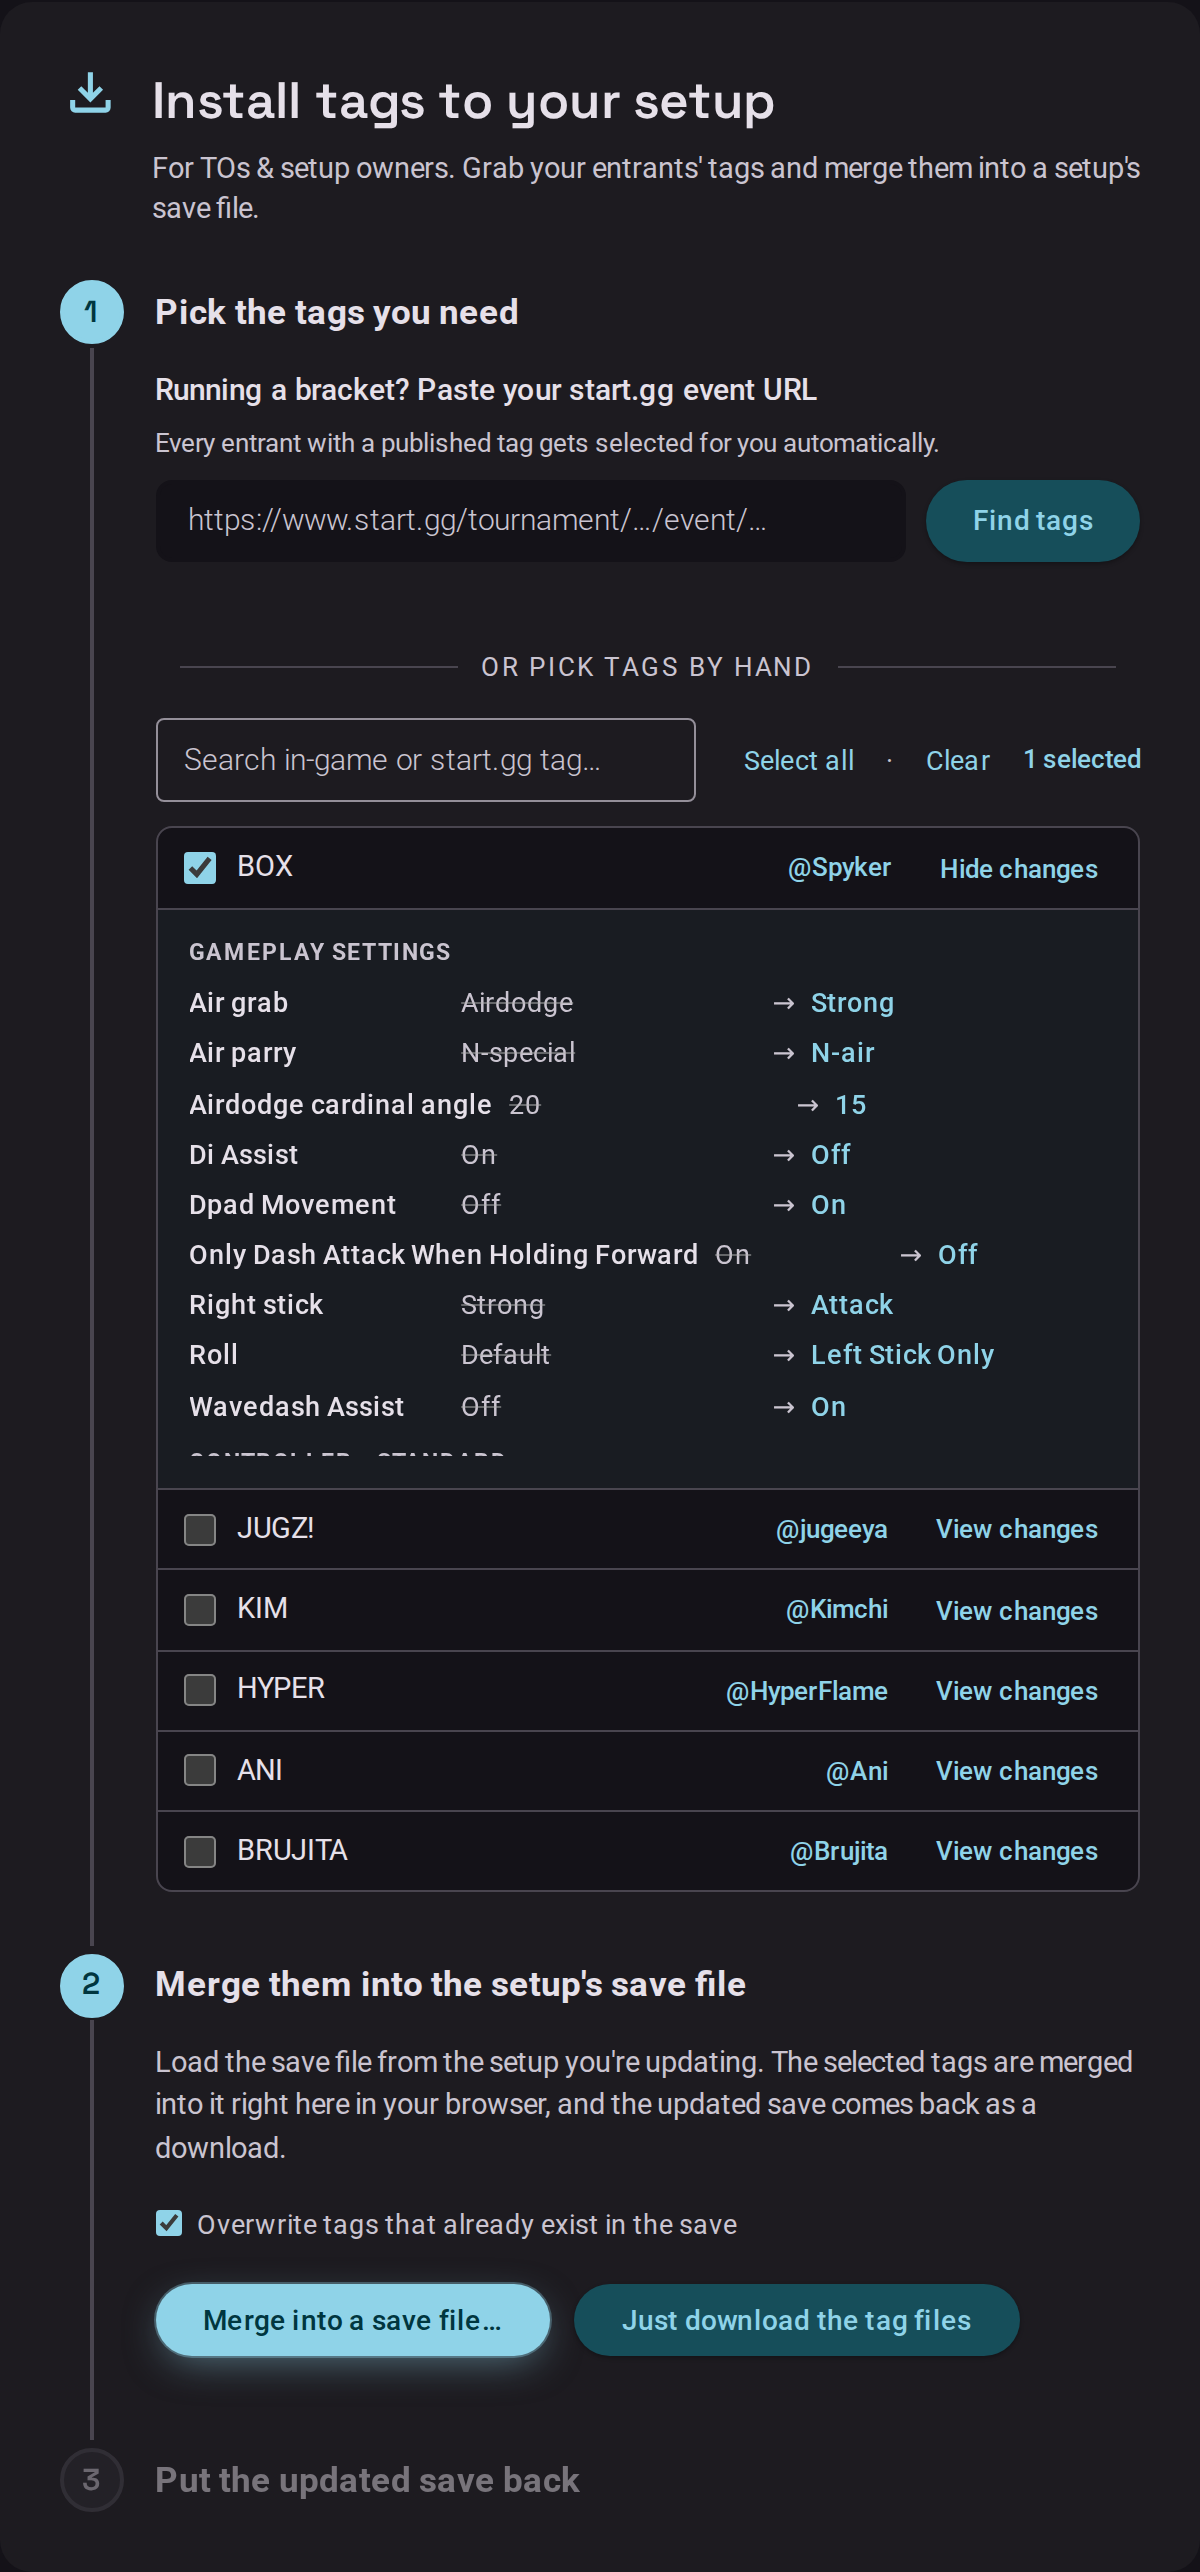
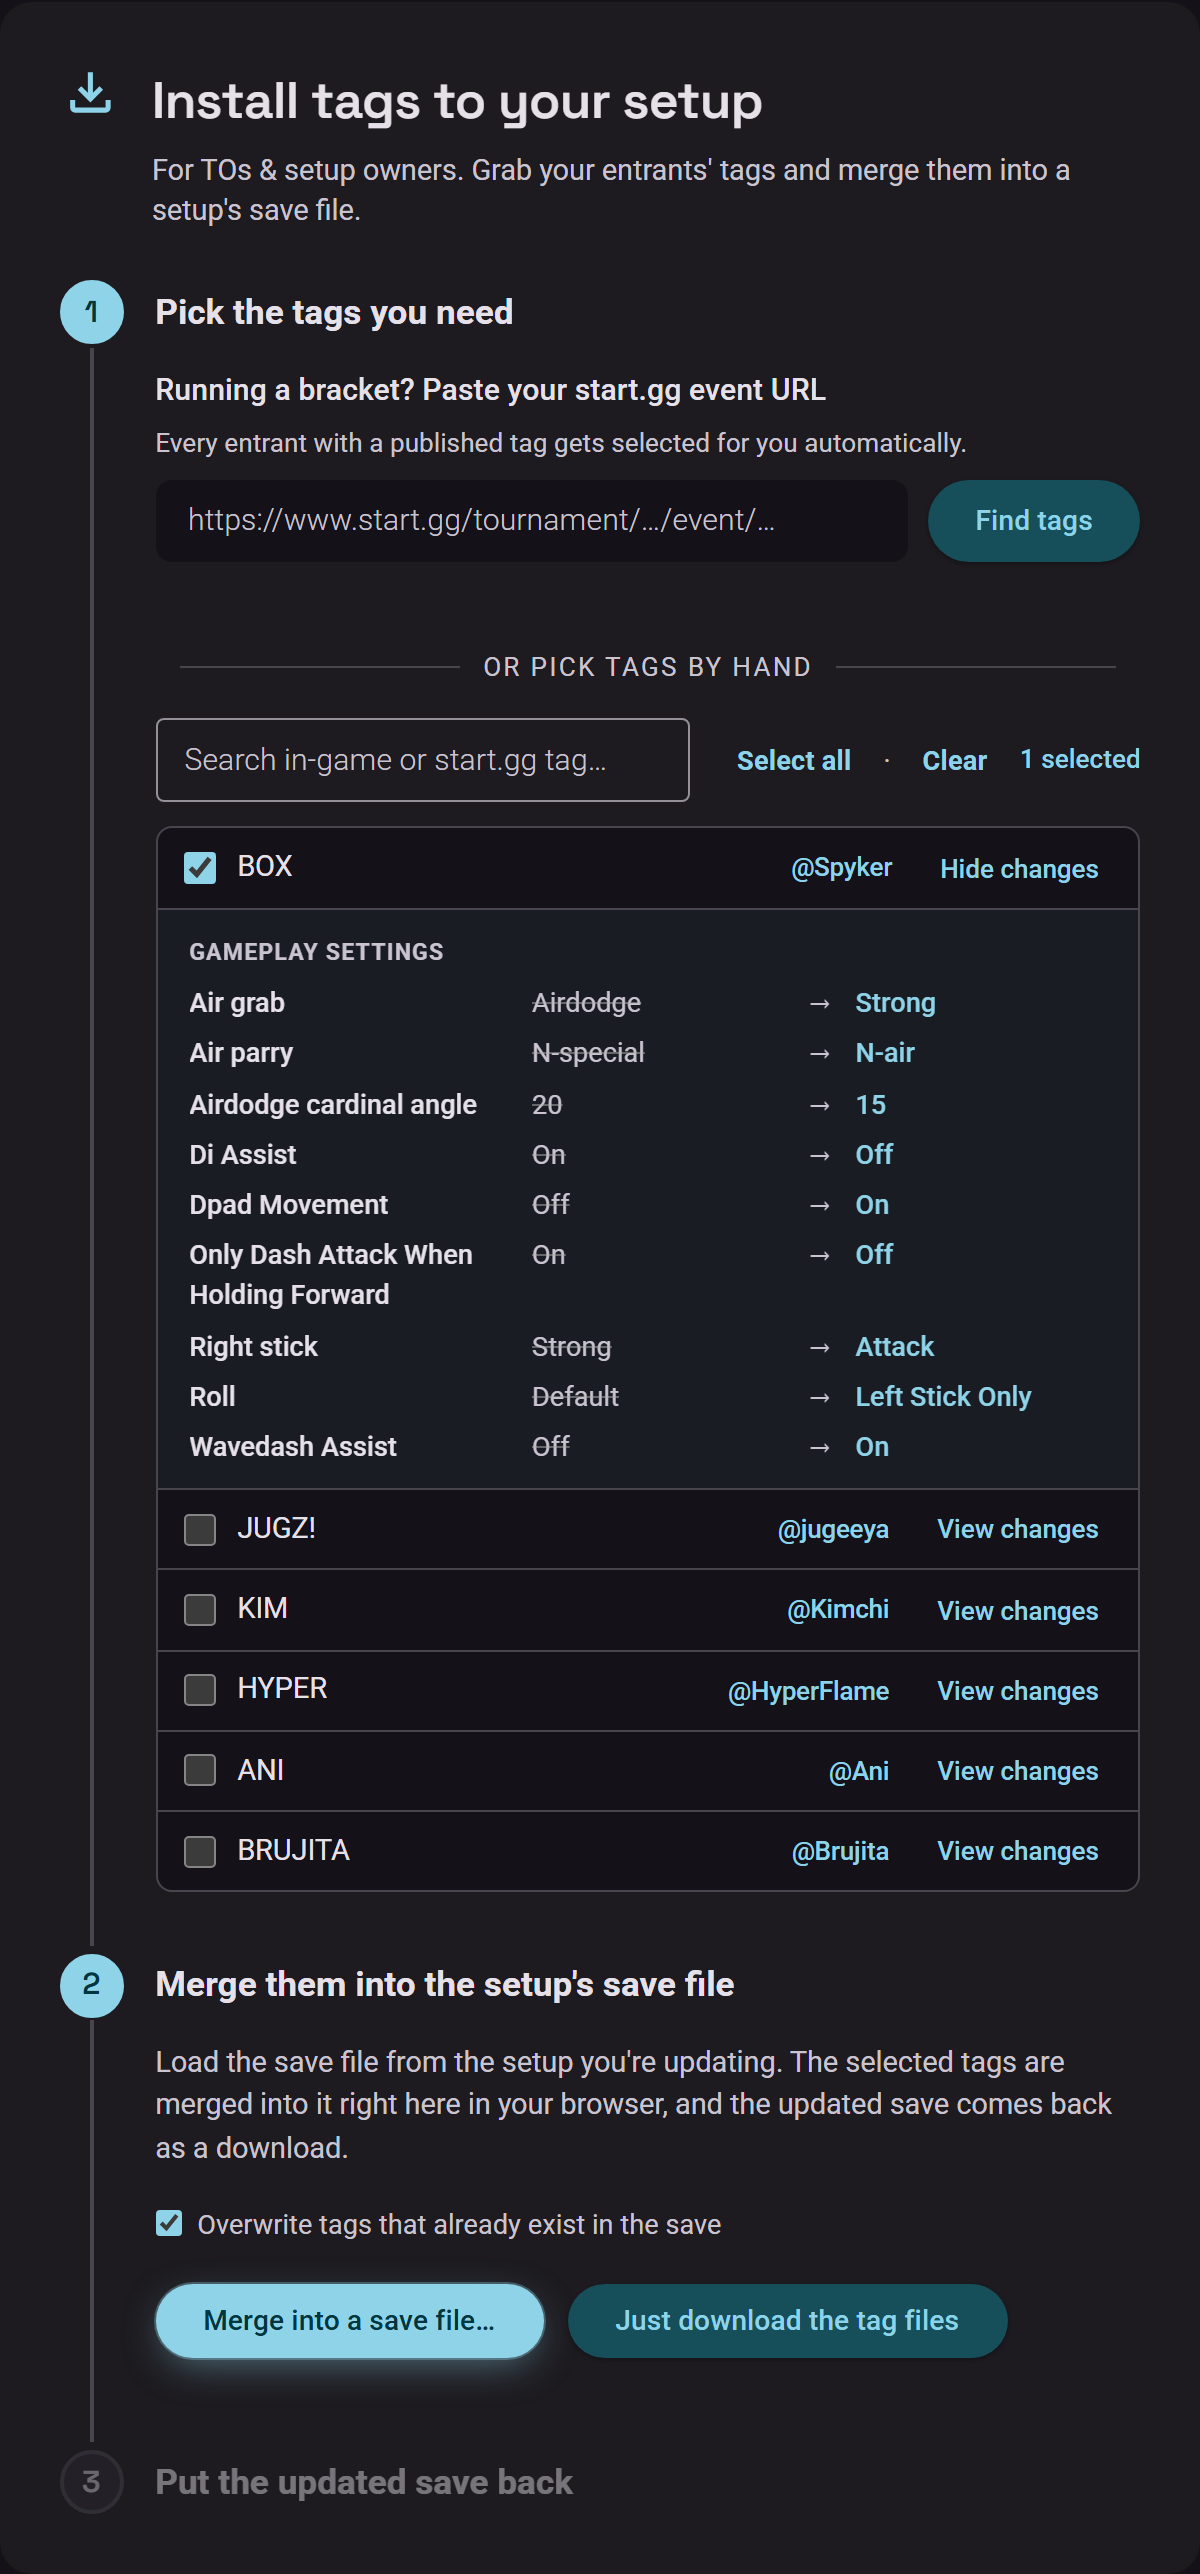
tags: align diff columns into a table; bold Select all / Clear
The "View changes" diff rendered each row as its own grid with
content-sized (auto) tracks, so the setting / old / arrow / new columns
landed at different x-positions row to row -- especially where a long
setting name widened its own column. Switch the per-row grid to fixed
fractional tracks (which resolve to identical boundaries across rows of
equal width) and give the cells min-width:0 + overflow-wrap so a long
name wraps within its column instead of blowing it out. Now every row's
old/arrow/new values line up as a real table; the mobile breakpoint
keeps its stacked "name on top, change below" layout.

Also bump the Select all / Clear buttons to font-weight 600 so they read
as actions distinct from the "N selected" count (500) sitting beside them.

Regenerated install.png to show the aligned diff.

diff --git a/tags/tags.css b/tags/tags.css
@@ -474,7 +474,9 @@ code {
     background: none;
     color: var(--primary-color);
     font-size: 0.85rem;
-    font-weight: 400;
+    /* Bolder than the "N selected" count (500) so the actions read as buttons,
+       not as part of the status text beside them. */
+    font-weight: 600;
 }
 
 .tag-browser-actions button.linkish:hover:not(:disabled) {
@@ -1171,10 +1173,24 @@ body.modal-open { overflow: hidden; }
 
 .tag-diff-list li {
     display: grid;
-    grid-template-columns: minmax(8rem, auto) 1fr auto 1fr;
+    /* Fixed fractional tracks (not content-sized `auto`) so every row resolves
+       to the same column boundaries — the setting / old / arrow / new columns
+       line up as a table instead of drifting row to row. A long setting name
+       wraps within its track rather than widening it and shoving the rest over. */
+    grid-template-columns: minmax(6.5rem, 1.3fr) minmax(0, 1fr) 1.25rem minmax(0, 1fr);
     align-items: baseline;
-    gap: 0.5rem;
+    gap: 0.35rem 0.5rem;
     font-size: 0.85rem;
+}
+
+/* min-width:0 lets the tracks hold their computed size and wrap overflow,
+   instead of grid's default min-width:auto blowing a column out to fit content
+   (which is what broke the alignment). */
+.tag-diff-key,
+.tag-diff-from,
+.tag-diff-to {
+    min-width: 0;
+    overflow-wrap: break-word;
 }
 
 .tag-diff-key {